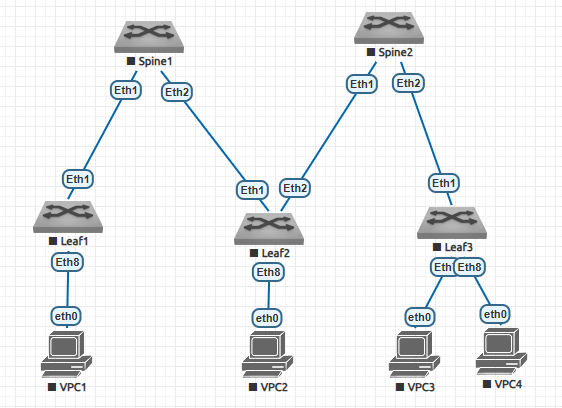
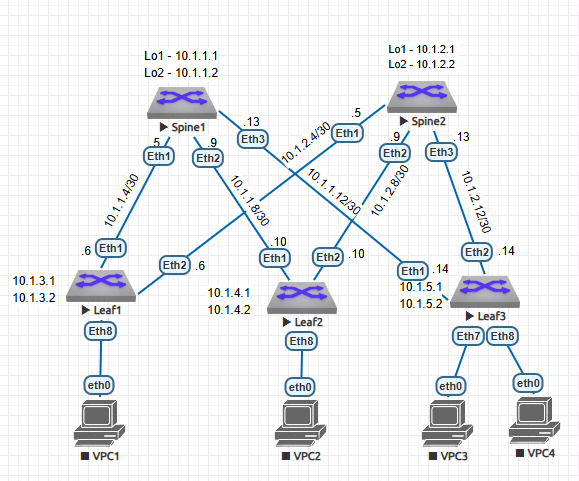
Доработка дз. Правка схемы. добавление таблицы. Правка конфигов

diff --git a/ДЗ1_Основы_Проектирования_Сети/README.MD b/ДЗ1_Основы_Проектирования_Сети/README.MD
@@ -1,5 +1,5 @@
 # ДЗ1 Основы проетирования сети
-##  Сбор топологии CLOS
+##  Сбор топологии CLOS + L3 Схема сети
 ![alt text](image.png)
 ## Распределение адресного пространства
 ##### Адресное пространство будет распределяться по формуле:
@@ -13,10 +13,35 @@ ip = 10.st.splf.x, где:
 * 3 - reserved
 * 4 - 7 - ptp1
 * 8 - 11 - ptp2
-* 12 - 15 - reserved
-* 16 - 31 - hosts network
-## L3 Схема сети
-![alt text](image-2.png)
+* 12 - 15 - ptp3
+* 16 - 31 - hosts network  
+
+таблица адресов  
+| network ipv4 | Device/port|    Description    |
+|--------------|:----------:| -----------------:|
+| 10.1.1.1/32  | Spine1/lo1 |     Loopback1     |
+| 10.1.1.2/32  | Spine1/lo2 |     Loopback2     |
+| 10.1.2.1/32  | Spine2/lo1 |     Loopback1     |
+| 10.1.2.2/32  | Spine2/lo2 |     Loopback2     |
+| 10.1.3.1/32  |  Leaf1/lo1 |     Loopback1     |
+| 10.1.3.2/32  |  Leaf1/lo2 |     Loopback2     |
+| 10.1.4.1/32  |  Leaf2/lo1 |     Loopback1     |
+| 10.1.4.2/32  |  Leaf2/lo2 |     Loopback2     |
+| 10.1.5.1/32  |  Leaf3/lo1 |     Loopback1     |
+| 10.1.5.2/32  |  Leaf3/lo2 |     Loopback2     |
+| 10.1.1.5/30  | Spine1/Eth1| P2P Link To Leaf1 |
+| 10.1.1.9/30  | Spine1/Eth2| P2P Link To Leaf2 |
+| 10.1.1.13/30 | Spine1/Eth3| P2P Link To Leaf3 |
+| 10.1.1.6/30  | Leaf1/Eth1 | P2P Link To Spine1|
+| 10.1.2.6/30  | Leaf1/Eth2 | P2P Link To Spine2|
+| 10.1.2.5/30  | Spine2/Eth1| P2P Link To Leaf1 |
+| 10.1.2.9/30  | Spine2/Eth2| P2P Link To Leaf2 |
+| 10.1.2.13/30 | Spine2/Eth2| P2P Link To Leaf3 |
+| 10.1.1.10/30 | Leaf2/Eth1 | P2P Link To Spine1|
+| 10.1.2.10/30 | Leaf2/Eth2 | P2P Link To Spine2|
+| 10.1.1.14/30 | Leaf3/Eth1 | P2P Link To Spine1|
+| 10.1.2.14/30 | Leaf3/Eth2 | P2P Link To Spine2|
+
 ## Конфигурация устройств
 
 1. Spine1:   
@@ -31,15 +56,20 @@ interface Loopback2
    description Loobpack2  
    ip address 10.1.1.2/32  
 !
-interface Ethernet1  
-   description P2P_Leaf1_Eth1  
-   no switchport  
-   ip address 10.1.1.5/30  
+interface Ethernet1
+   description P2P_Leaf1_Eth1
+   no switchport
+   ip address 10.1.1.5/30
 !
-interface Ethernet2  
-   description P2P_Leaf2_Eth1  
-   no switchport  
+interface Ethernet2
+   description P2P_Leaf2_Eth1
+   no switchport
    ip address 10.1.1.9/30
+!
+interface Ethernet3
+   description P2P_Leaf3_Eth1
+   no switchport
+   ip address 10.1.1.13/30
 ```
 
 2. Leaf1:  
@@ -54,10 +84,15 @@ interface Loopback2
    description Loopback2  
    ip address 10.1.3.2/32 
 !
-interface Ethernet1  
-   description P2P_Spine1_Eth1  
-   no switchport  
-   ip address 10.1.1.6/30  
+interface Ethernet1
+   description P2P_Spine1_Eth1
+   no switchport
+   ip address 10.1.1.6/30
+!
+interface Ethernet2
+   description P2P_Spine2_Eth1
+   no switchport
+   ip address 10.1.2.6/30 
 ```
 
    3. Leaf2:  
@@ -72,15 +107,15 @@ interface Loopback2
    description Loopback2  
    ip address 10.1.4.2/32  
 !
-interface Ethernet1  
-   description P2P_Spine1_Eth2  
-   no switchport  
-   ip address 10.1.1.10/30  
+interface Ethernet1
+   description P2P_Spine1_Eth2
+   no switchport
+   ip address 10.1.1.10/30
 !
-interface Ethernet2  
-   description P2P_Spine2_ETh1  
-   no switchport  
-   ip address 10.1.2.6/30  
+interface Ethernet2
+   description P2P_Spine2_ETh2
+   no switchport
+   ip address 10.1.2.10/30
 ```
 
 4. Spine2:  
@@ -94,15 +129,20 @@ interface Loopback2
    description Loopback2  
    ip address 10.1.2.2/32  
 !
-interface Ethernet1  
-   description P2P_Leaf2_Eth2  
-   no switchport  
-   ip address 10.1.2.5/30  
+interface Ethernet1
+   description P2P_Leaf1_Eth2
+   no switchport
+   ip address 10.1.2.5/30
 !
-interface Ethernet2  
-   description P2P_Leaf3_Eth1  
-   no switchport  
-   ip address 10.1.2.9/30  
+interface Ethernet2
+   description P2P_Leaf2_Eth2
+   no switchport
+   ip address 10.1.2.9/30
+!
+interface Ethernet3
+   description P2P_Leaf3_Eth2
+   no switchport
+   ip address 10.1.2.13/30
 ```
 
    5. Leaf3:
@@ -117,8 +157,13 @@ interface Loopback2
    description Loopback2  
    ip address 10.1.5.2/32  
 !
-interface Ethernet1  
-   description P2P_Spine2_Eth2  
-   no switchport  
-   ip address 10.1.2.10/30  
+interface Ethernet1
+   description P2P_Spine1_Eth3
+   no switchport
+   ip address 10.1.1.14/30
+!
+interface Ethernet2
+   description P2P_Spine2_Eth3
+   no switchport
+   ip address 10.1.2.14/30
   ```
